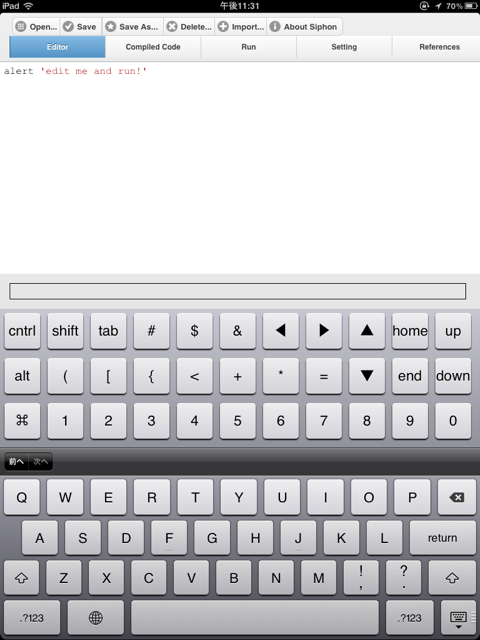
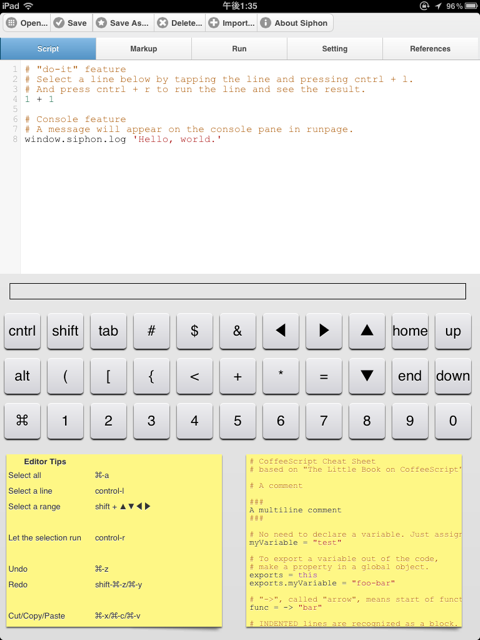
version 0.6.0

diff --git a/siphon.js b/siphon.js
@@ -537,7 +537,7 @@
     });
     $('#saveas').click(clickSaveas);
     $('#about').click(function() {
-      return alert('Siphon\nCoffeeScript Programming Environment\nVersion 0.5.3\nCopyright (C) 2011 ICHIKAWA, Yuji All Rights Reserved.');
+      return alert('Siphon\nCoffeeScript Programming Environment\nVersion 0.6.0\nCopyright (C) 2011 ICHIKAWA, Yuji All Rights Reserved.');
     });
     resetSelects();
     $('#open').change(function() {

diff --git a/index.html b/index.html
@@ -82,6 +82,8 @@ Enjoy <em>Siphon</em> by clicking <b><a href="siphon.html">here</a></b>!
 <li>Code completion</li>
 </ul>
 <h3>Change log</h3>
+2011/12/28 - version 0.6.0: Markup editor. Console pane.
+<br>
 2011/12/27 - version 0.5.3: Raphaël, elycharts.
 <br>
 2011/12/26 - version 0.5.2: AwesomeChartJS. A little design change.
